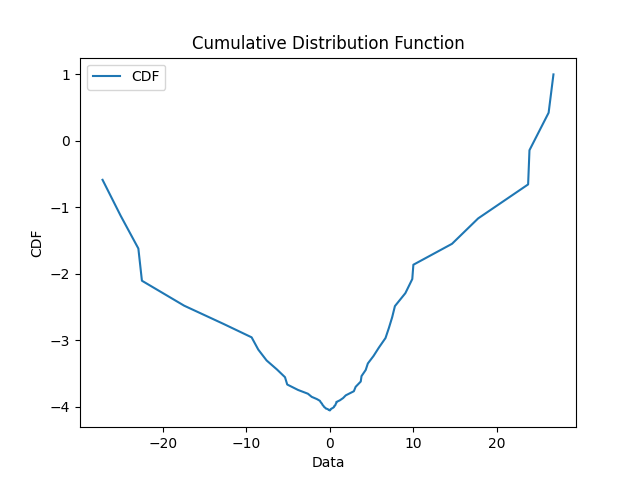
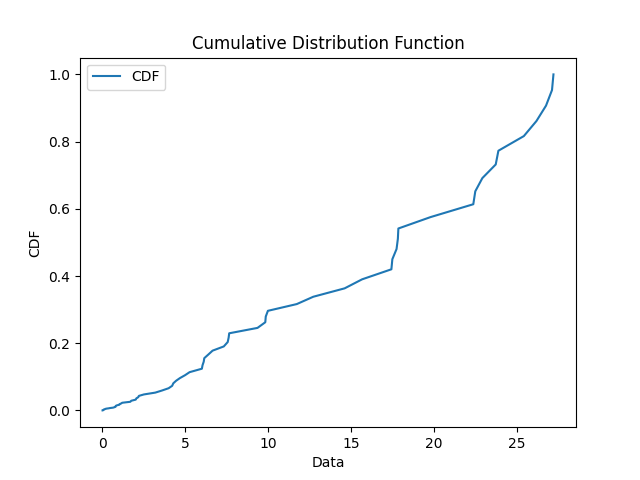
角度仿真绘图与数据存储
1.把所有用户和所有视频的数据预处理后存储为俯仰角、偏航角和角速度三个表格
2. 写了初步的cdf图绘制代码

diff --git a/AngularPlot/angular_plot.py b/AngularPlot/angular_plot.py
@@ -1,11 +1,11 @@
 import math
-import pyquaternion
 from pyquaternion import Quaternion
 import csv
 import numpy as np
 import os
 import matplotlib.pyplot as plt
-from scipy.spatial.transform import Rotation
+import pandas as pd
+import seaborn as sns
 
 def calculate_rotation(quat1, quat2):
     """计算两个四元数之间的角度差值
@@ -45,18 +45,32 @@ def calculate_rotation(quat1, quat2):
     return pitch, yaw, d, d_deg
 
 def quart_to_rpy(x, y, z, w):
+    """由四元数计算欧拉角
+
+    Args:
+        x (float): 四元数x
+        y (float): 四元数y
+        z (float): 四元数z
+        w (float): 四元数w
+
+    Returns:
+        float: 欧拉角对应的roll,pitch,yaw
+    """
+    # 下面计算的是分别绕x轴，y轴和z轴的旋转，y轴对应偏航，z轴对应俯仰
     roll = math.atan2(2 * (w * x + y * z), 1 - 2 * (x * x + y * y))
-    pitch = math.asin(2 * (w * y - x * z))
-    yaw = math.atan2(2 * (w * z + x * y), 1 - 2 * (z * z + y * y))
+    yaw = math.asin(2 * (w * y - x * z))
+    pitch = math.atan2(2 * (w * z + x * y), 1 - 2 * (z * z + y * y))
     return roll, pitch, yaw
 
-def angular_plot():
-    for video_id in range(1):
-        for user_id in range(1,2):
+def angular_data():
+    """为每个视频的每个用户保存俯仰角、偏航角和角速度数据
+    """
+    for video_id in range(9):
+        for user_id in range(1,49):
             # 构建文件夹
-            figure_path = "./AngularPlot/Figure/video_"+ str(video_id) +"/user_" + str(user_id)
-            if not os.path.exists(figure_path):
-                os.makedirs(figure_path)
+            data_path = "./AngularPlot/Data/video_"+ str(video_id) +"/user_" + str(user_id)
+            if not os.path.exists(data_path):
+                os.makedirs(data_path)
 
             pitch_data, yaw_data, degree_data= [],[],[]
             q_data = get_quaternion_from_csv(user_id, video_id)
@@ -73,32 +87,67 @@ def angular_plot():
                 segment_temp.append([pitch,yaw,d_deg])
                 count += 1
                 # 一个segment结束的时候，清理temp数据并填入一条绘图数据
-                if count == 7 or index==len(q_data)-1:
+                if count == 8 or index==len(q_data)-1:
                     average = segment_average(segment_temp)
                     pitch_data.append(average[0])
                     yaw_data.append(average[1])
                     degree_data.append(average[2])
                     segment_temp = []
                     count = 0
-            # 绘制CDF图
-            cdf_plot(data=pitch_data, save_path=figure_path+"/pitch_cdf.png")
-            cdf_plot(data=yaw_data,save_path=figure_path+"/yaw_cdf.png")
-            cdf_plot(data=degree_data, save_path=figure_path+"/degree_velocity_cdf.png")
-            print("finish")
+            # 保存数据
+            f1 = open(data_path+"/pitch.csv", 'w', encoding="utf-8", newline="")
+            f2 = open(data_path+"/yaw.csv", 'w', encoding="utf-8", newline="")
+            f3 = open(data_path+"/degree_velocity.csv", 'w', encoding="utf-8", newline="")
+            save_data(f1, pitch_data)
+            save_data(f2, yaw_data)
+            save_data(f3, degree_data)
+        print("finish with video "+str(video_id))
 
+def save_data(file, data):
+    csv_writer = csv.writer(file)
+    csv_writer.writerow(["index","degree"])
+    index = 0
+    for item in data:
+        csv_writer.writerow([index, item])
+        index += 1
+    file.close()
 
-def cdf_plot(data, save_path):
-        sorted_data = np.sort(data)
-        # 计算CDF值
-        cdf = np.cumsum(sorted_data) / np.sum(sorted_data)
-        # 绘制CDF图
-        plt.plot(sorted_data, cdf, label='CDF')
-        plt.xlabel('Data')
-        plt.ylabel('CDF')
-        plt.title('Cumulative Distribution Function')
-        plt.legend()
-        plt.savefig(save_path)
-        plt.close()
+def cdf_plot(plot_type):
+    num_videos = 9
+    num_users = 9
+    plt.figure(dpi=400)
+    # 针对同一用户的不同视频绘图
+    for index in range(num_videos):
+        user_file = "./AngularPlot/Data/video_"+str(index)+"/user_1/"+plot_type+".csv" 
+        user_current = pd.read_csv(user_file)
+        data = user_current['degree']
+        sns.ecdfplot(data=data,label='Video_'+str(index))
+    # 添加标签和标题
+    plt.xlabel(plot_type)
+    plt.ylabel('CDF')
+    plt.title('Cumulative Distribution Function')
+    # 显示图例
+    plt.legend()
+    # 显示图形
+    plt.savefig("./AngularPlot/Figure/example/"+plot_type+"_video.png")
+    plt.close()
+
+    plt.figure(dpi=400)
+    # 针对同一视频的不同用户绘图
+    for index in range(1, num_users+1):
+        user_file = "./AngularPlot/Data/video_0/user_"+str(index)+"/"+plot_type+".csv" 
+        user_current = pd.read_csv(user_file)
+        sns.ecdfplot(data=user_current['degree'],label='User_'+str(index))
+    # 添加标签和标题
+    plt.xlabel(plot_type)
+    plt.ylabel('CDF')
+    plt.title('Cumulative Distribution Function')
+    # 显示图例
+    plt.legend()
+    # 显示图形
+    plt.savefig("./AngularPlot/Figure/example/"+plot_type+"_user.png")
+    plt.close()
+
 
 def segment_average(segment_array):
     """计算一个segment(2s)内的俯仰角总和，偏航角总合和球面角速度平均值
@@ -129,7 +178,6 @@ def get_quaternion_from_csv(user_id, video_id):
     """
     quaternion_Data = []
     UserFile = "./vr-dataset/Experiment_1/" + str(user_id) + "/video_"+ str(video_id) +".csv"
-    print('Load user\'s excel quaternion info from', UserFile)
     
     with open(UserFile) as csvfile:
         csv_reader = csv.reader(csvfile)
@@ -145,4 +193,6 @@ def get_quaternion_from_csv(user_id, video_id):
 
 
 if __name__ == '__main__':
-    angular_plot()
+    cdf_plot("pitch")
+    cdf_plot("yaw")
+    cdf_plot("degree_velocity")

diff --git a/AngularPlot/plot_test.py b/AngularPlot/plot_test.py
@@ -1,0 +1,21 @@
+import numpy as np
+import matplotlib.pyplot as plt
+import seaborn as sns
+import csv
+import pandas as pd
+
+
+user_file = "./AngularPlot/Data/video_0/user_1/pitch.csv" 
+user_current = pd.read_csv(user_file)
+
+# 绘制平滑的 CDF 曲线
+sns.kdeplot(data=user_current['degree'], cumulative=True, label='User1')
+
+# 添加标签和标题
+plt.xlabel('pitch')
+plt.ylabel('CDF')
+plt.title('Cumulative Distribution Function')
+
+# 显示图形
+plt.show()
+plt.show()
